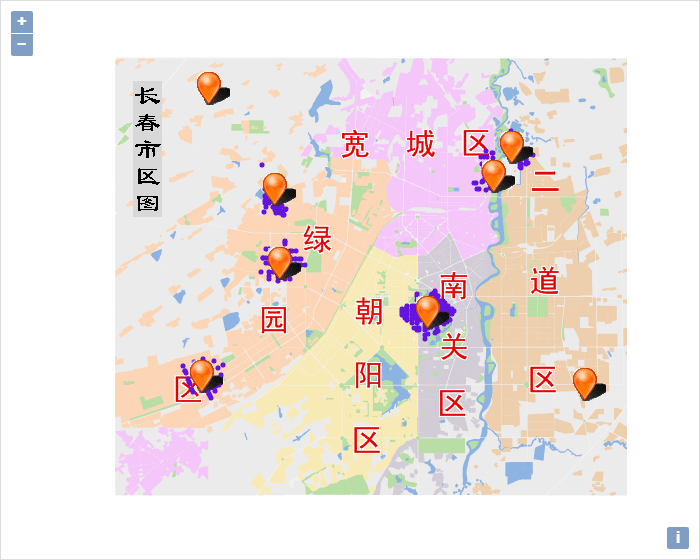
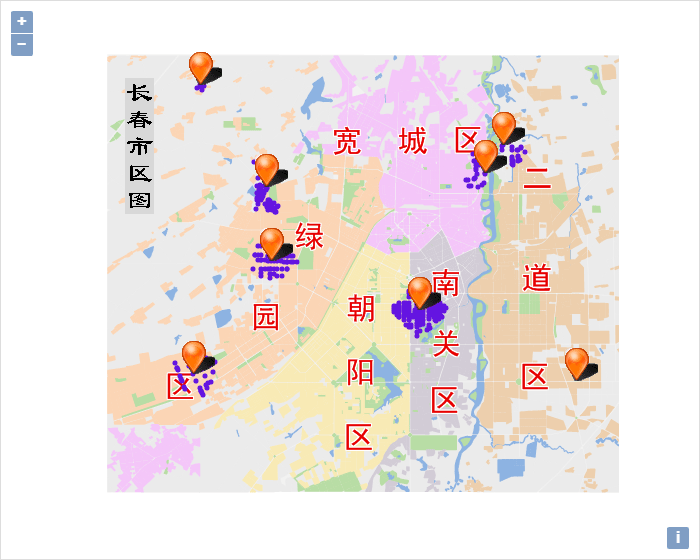
修改OL3中几何查询解析时的错误；新增OL3中缓冲区分析二示例；修改OL3选址分区示例中设施点的显示位置。review by zhurch

Changed region(s): [[0.15, 0.0911, 0.9, 0.9107], [0.15, 0.0911, 0.21, 0.1214]]

diff --git a/examples/openlayers/04_bufferAnalystService_geometry.html b/examples/openlayers/04_bufferAnalystService_geometry.html
@@ -1,0 +1,191 @@
+<!DOCTYPE html>
+<html>
+<head>
+    <meta charset="UTF-8">
+    <title>空间分析服务-缓冲区分析二</title>
+    <link href="http://cdn.bootcss.com/bootstrap/3.3.7/css/bootstrap.min.css" rel="stylesheet">
+    <link href="http://cdn.bootcss.com/openlayers/4.0.1/ol.css" rel="stylesheet">
+</head>
+<body style=" margin: 0;overflow: hidden;background: #fff;width: 100%;height:600px;">
+<div id="map" style="margin:0 auto;width: 100%;height: 100%;border: 1px solid #dddddd"></div>
+<script src="http://cdn.bootcss.com/openlayers/4.0.1/ol-debug.js"></script>
+<script type="text/javascript" src="../../dist/iclient9-openlayers.js"></script>
+<script type="text/javascript">
+    var map, options, roadLine, bufferAnalystService, geoBufferAnalystParams, resultLayer,
+            queryService, queryByGeometryParameters, resultLayer1,
+            baseUrl = "http://support.supermap.com.cn:8090/iserver/services/map-changchun/rest/maps/长春市区图",
+            serviceUrl = "http://support.supermap.com.cn:8090/iserver/services/spatialanalyst-changchun/restjsr/spatialanalyst";
+
+    init();
+
+    function init() {
+        var mapService = new ol.supermap.MapService(baseUrl);
+        var extent = [48.4, -7668.25, 8958.85, -55.58];
+        var projection = new ol.proj.Projection({
+            extent: extent,
+            units: 'm'
+        });
+        mapService.on("complete", function (serviceResult) {
+            var mapJSONObj = serviceResult.element.result;
+            map = new ol.Map({
+                target: 'map',
+                view: new ol.View({
+                    center: [4503.6240321526, -3861.911472192499],
+                    zoom: 2,
+                    projection: projection
+                })
+            });
+            options = ol.supermap.TileSuperMapRest.optionsFromMapJSON(baseUrl, mapJSONObj);
+            var layer = new ol.layer.Tile({
+                source: new ol.supermap.TileSuperMapRest(options)
+            });
+            map.addLayer(layer);
+            geoBufferAnalystProcess();
+        });
+        mapService.getMapStatus();
+    }
+
+    function geoBufferAnalystProcess() {
+        var pointsList = [
+            [2823.940, -4690.000],
+            [3448.940, -4690.301],
+            [3816.561, -3810.125],
+            [3917.383, -3609.158],
+            [3976.983, -3490.291],
+            [4020.004, -4377.027],
+            [4076.265, -4382.939],
+            [4215.049, -4382.333],
+            [4428.156, -4382.285],
+            [4647.579, -4383.017],
+            [4679.707, -4382.898],
+            [4917.462, -4382.635],
+            [5074.019, -4381.833],
+            [5257.042, -4381.031],
+            [5363.785, -4380.717],
+            [5671.717, -4378.794],
+            [5847.521, -4377.970],
+            [5990.637, -4303.528],
+            [6055.343, -4270.072],
+            [6168.913, -4382.389],
+            [6214.183, -4209.927],
+            [6377.789, -4209.142],
+            [6393.692, -4210.142],
+            [6693.989, -4207.450],
+            [6788.392, -4208.450],
+            [6984.304, -4207.210],
+            [7189.183, -4208.296],
+            [7300.505, -4208.296],
+            [7573.056, -4208.803],
+            [7680.977, -4208.804],
+            [7850.593, -4208.393],
+            [8182.656, -4210.533],
+            [8554.893, -4261.485]
+        ];
+        //在所有离散gps信号点添加到地图上
+        for (i = 0; i < pointsList.length; i++) {
+            var point = new ol.Feature({
+                geometry: new ol.geom.Point(pointsList[i])
+            });
+            var pointLayer = new ol.layer.Vector({
+                source: new ol.source.Vector({
+                    features: [point]
+                }),
+                style: new ol.style.Style({
+                    image: new ol.style.Circle({
+                        radius: 4,
+                        fill: new ol.style.Fill({
+                            color: 'black'
+                        })
+                    })
+                })
+            });
+            map.addLayer(pointLayer);
+        }
+        //将由离散gps信号点生成的线路添加到地图上
+        var roadLine = new ol.geom.LineString(pointsList);
+        var roadLineSource = new ol.source.Vector({
+            features: [new ol.Feature(roadLine)]
+        });
+        var roadLineLayer = new ol.layer.Vector({
+            source: roadLineSource,
+            style: new ol.style.Style({
+                stroke: new ol.style.Stroke({
+                    color: 'red',
+                    width: 3
+                })
+            })
+        });
+        map.addLayer(roadLineLayer);
+        //生成缓冲区
+        //创建缓冲区分析服务
+        bufferAnalystService = new ol.supermap.SpatialAnalystService(serviceUrl);
+        //创建缓冲区分析服务参数
+        geoBufferAnalystParams = new GeometryBufferAnalystParameters({
+            sourceGeometry: roadLine,
+            bufferSetting: new BufferSetting({
+                endType: BufferEndType.ROUND,
+                leftDistance: new BufferDistance({value: 250}),
+                rightDistance: new BufferDistance({value: 250}),
+                semicircleLineSegment: 10
+            })
+        });
+        //向iServer发送请求并返回结果
+        bufferAnalystService.bufferAnalysis(geoBufferAnalystParams)
+                .on('complete', function (serviceResult) {
+                    var bufferSource = new ol.source.Vector({
+                        features: (new ol.format.GeoJSON()).readFeatures(serviceResult.element.result)
+                    });
+                    resultLayer = new ol.layer.Vector({
+                        source: bufferSource,
+                        style: new ol.style.Style({
+                            stroke: new ol.style.Stroke({
+                                color: 'blue',
+                                width: 1
+                            }),
+                            fill: new ol.style.Fill({
+                                color: 'rgba(255, 0, 0, 0.1)'
+                            })
+                        })
+                    });
+                    map.addLayer(resultLayer);
+
+                    //查询出缓冲区内信号影响范围内的工厂
+                    queryService = new ol.supermap.QueryService(baseUrl);
+                    //将组成缓冲区的边界点提出来，为了构造下面查询服务的geometry
+                    var bufferPoints = [];
+                    var coordinate = serviceResult.element.result.coordinates[0][0];
+                    for (var i = 0; i < coordinate.length; i++) {
+                        bufferPoints.push([coordinate[i][0], coordinate[i][1]]);
+                    }
+                    var geometry = new ol.geom.Polygon([bufferPoints]);
+                    queryByGeometryParameters = new QueryByGeometryParameters({
+                        queryParams: [new FilterParameter({name: "Company@Changchun.2"})],
+                        geometry: geometry,
+                        spatialQueryMode: SpatialQueryMode.INTERSECT
+                    });
+                    queryService.queryByGeometry(queryByGeometryParameters)
+                            .on('complete', function (serviceResult) {
+                                var features = (new ol.format.GeoJSON()).readFeatures(serviceResult.element.result[0]);
+                                var iconStyle = new ol.style.Style({
+                                    image: new ol.style.Icon(({
+                                        anchor: [0.5, 1],
+                                        src: 'http://support.supermap.com.cn:8090/iserver/iClient/forJavaScript/theme/images/marker-gold.png'
+                                    }))
+                                });
+                                for (var i = 0; i < features.length; i++) {
+                                    features[i].setStyle(iconStyle);
+                                }
+                                var vectorSource = new ol.source.Vector({
+                                    features: features
+                                });
+                                resultLayer1 = new ol.layer.Vector({
+                                    source: vectorSource
+                                });
+                                map.addLayer(resultLayer1);
+                            });
+
+                });
+    }
+</script>
+</body>
+</html>

diff --git a/examples/openlayers/config.js b/examples/openlayers/config.js
@@ -138,6 +138,10 @@ var exampleConfig = {
                     thumbnail: "ol_bufferAnalystService.png",
                     fileName: "04_bufferAnalystService"
                 }, {
+                    name: "缓冲区分析二",
+                    thumbnail: "ol_bufferAnalystService_geometry.png",
+                    fileName: "04_bufferAnalystService_geometry"
+                }, {
                     name: "数据集泰森多边形",
                     thumbnail: "ol_thiessenAnalystService-datasets.png",
                     fileName: "04_thiessenAnalystService_datasets"

diff --git a/src/OL3/SuperMap/iServer/QueryService.js b/src/OL3/SuperMap/iServer/QueryService.js
@@ -83,7 +83,7 @@ ol.supermap.QueryService.prototype.queryBySQL = function (params, resultFormat) 
  */
 ol.supermap.QueryService.prototype.queryByGeometry = function (params, resultFormat) {
     var me = this;
-    var queryByGeometryService = new SuperMap.REST.QueryByGeometryService(url, {
+    var queryByGeometryService = new SuperMap.REST.QueryByGeometryService(me.options.url, {
         eventListeners: {
             scope: me,
             processCompleted: me.processCompleted,

diff --git a/dist/iclient9-openlayers.js b/dist/iclient9-openlayers.js
@@ -3048,7 +3048,7 @@
 	 */
 	ol.supermap.QueryService.prototype.queryByGeometry = function (params, resultFormat) {
 	    var me = this;
-	    var queryByGeometryService = new SuperMap.REST.QueryByGeometryService(url, {
+	    var queryByGeometryService = new SuperMap.REST.QueryByGeometryService(me.options.url, {
 	        eventListeners: {
 	            scope: me,
 	            processCompleted: me.processCompleted,

diff --git a/examples/openlayers/05_findLocationService.html b/examples/openlayers/05_findLocationService.html
@@ -66,7 +66,7 @@
         var iconStyle_facility = new ol.style.Style({
             image: new ol.style.Icon(({
                 src: 'http://support.supermap.com.cn:8090/iserver/iClient/forJavaScript/theme/images/marker.png',
-                //imgSize: [44, 30]
+                anchor: [0.5, 1]
             }))
         });
         facilityFeature1.setStyle(iconStyle_facility);
